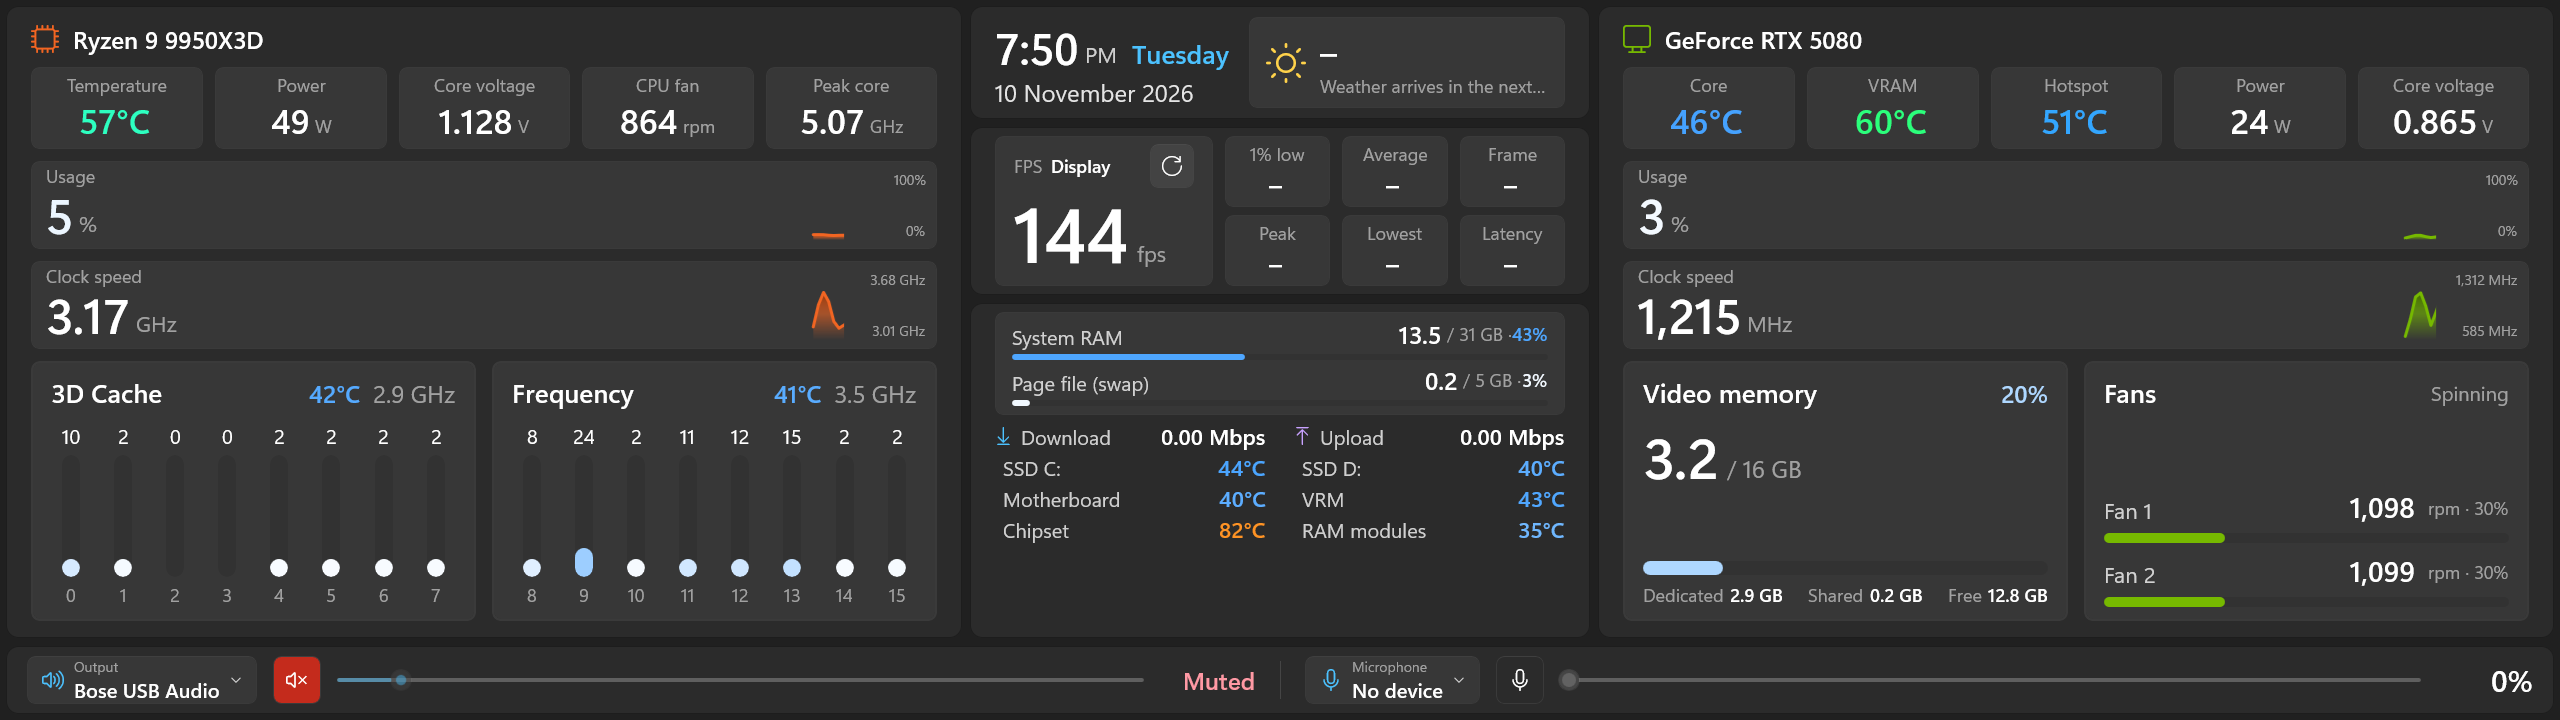
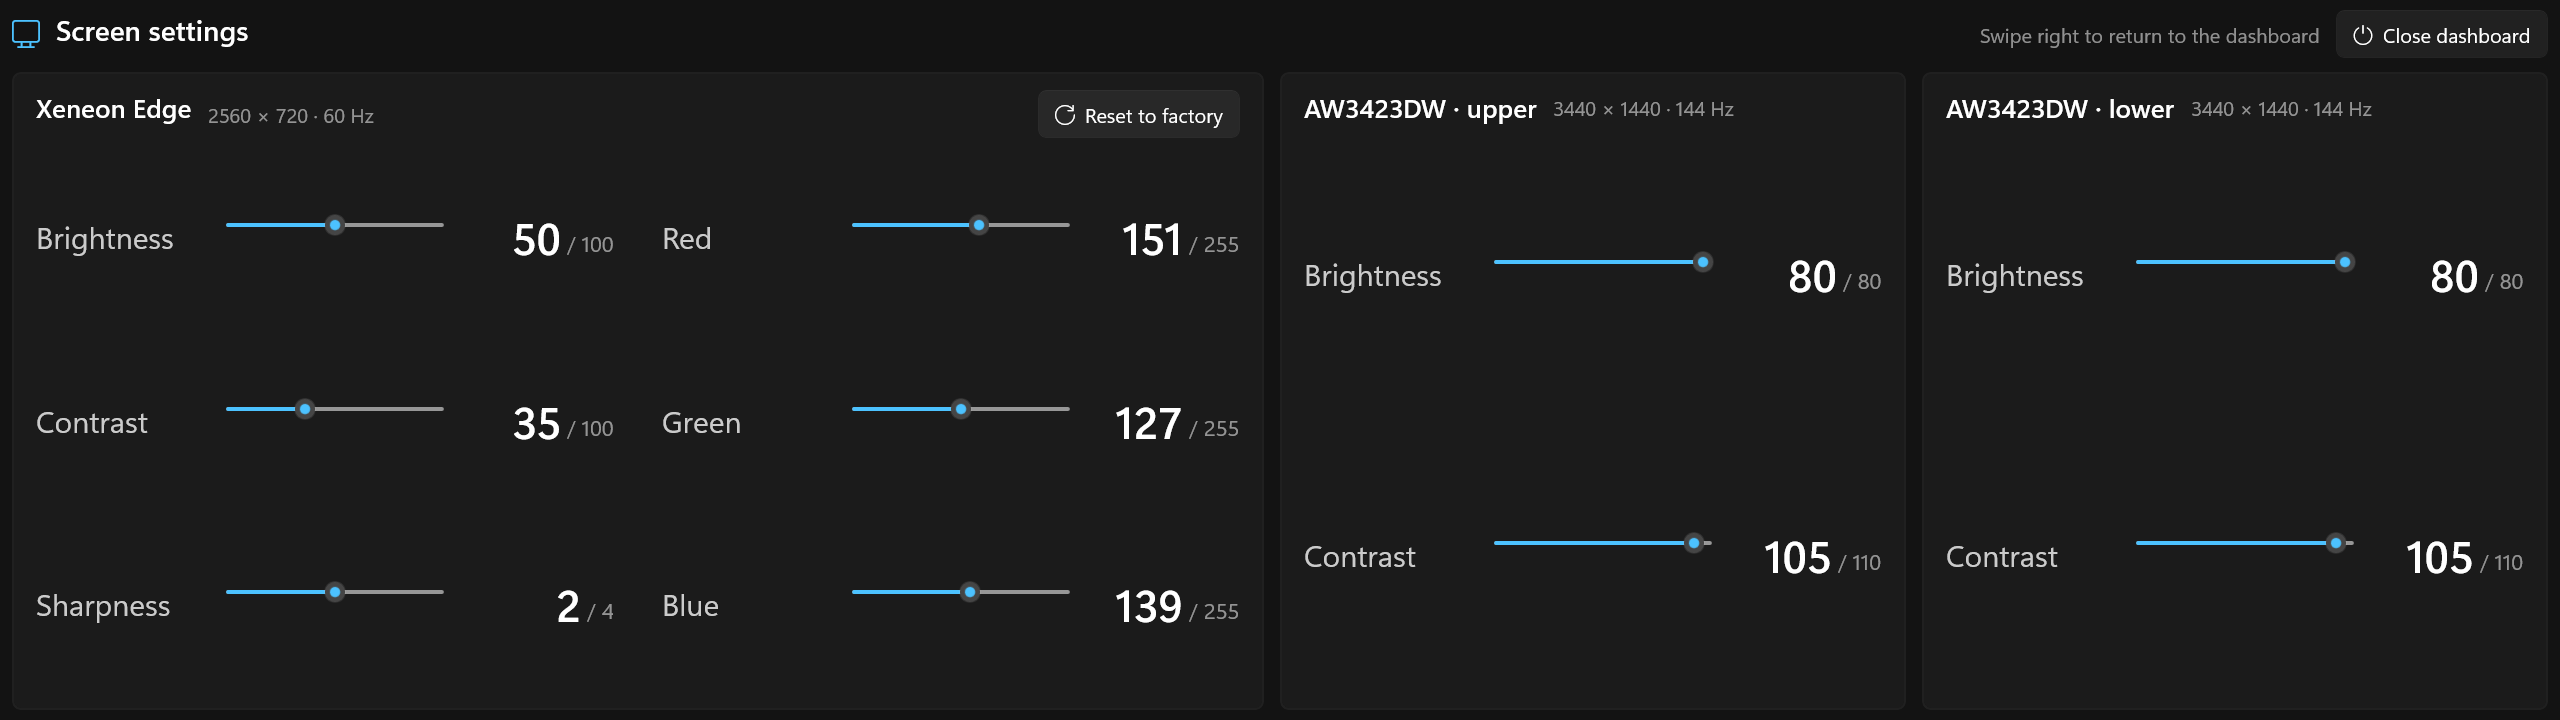
Close the dashboard with a two-tap button instead of Esc

diff --git a/Ui/DisplayPage.cs b/Ui/DisplayPage.cs
@@ -19,9 +19,12 @@ public sealed class DisplayPage
     private readonly Dictionary<(DdcMonitor Monitor, byte Code), (Slider Slider, TextBlock Value)> _controls = new();
     private bool _refreshing; // true while sliders are being set from the monitor, so they don't send the value back
 
-    public DisplayPage(Grid host)
+    private readonly Action _close;
+
+    public DisplayPage(Grid host, Action close)
     {
         _host = host;
+        _close = close;
         _ui = DispatcherQueue.GetForCurrentThread();
         _host.Padding = new Thickness(8);
         _host.Children.Add(Centered("Reading monitor settings…"));
@@ -65,7 +68,8 @@ public sealed class DisplayPage
         _host.Children.Clear();
         var rows = Make.Rows(14, Make.Auto, Make.Star);
 
-        var header = Make.Columns(16, Make.Auto, Make.Auto, Make.Star, Make.Auto);
+        var header = Make.Columns(16, Make.Auto, Make.Auto, Make.Star, Make.Auto, Make.Auto);
+        CloseButton().At(header, column: 4);
         var icon = Make.Icon("", 28, Theme.Accent);
         icon.VerticalAlignment = VerticalAlignment.Center;
         icon.At(header, column: 0);
@@ -94,6 +98,32 @@ public sealed class DisplayPage
         }
         cards.At(rows, row: 1);
         _host.Children.Add(Make.Panel(rows, new Thickness(20, 14, 20, 16)));
+    }
+
+    /// <summary>
+    /// The only way to close the dashboard, and it takes two taps: the first arms the button for a
+    /// few seconds ("Tap again to close"), the second closes. A stray touch does nothing.
+    /// </summary>
+    private Button CloseButton()
+    {
+        var label = Make.Text("Close dashboard", 20);
+        var content = new StackPanel { Orientation = Orientation.Horizontal, Spacing = 10 };
+        content.Children.Add(Make.Icon("", 20, Theme.Text));
+        content.Children.Add(label);
+        var button = new Button { Height = 48, Padding = new Thickness(16, 0, 16, 0), CornerRadius = new CornerRadius(8), Content = content };
+
+        bool armed = false;
+        var disarm = new DispatcherTimer { Interval = TimeSpan.FromSeconds(4) };
+        disarm.Tick += (_, _) => { disarm.Stop(); armed = false; label.Text = "Close dashboard"; button.ClearValue(Control.BackgroundProperty); };
+        button.Click += (_, _) =>
+        {
+            if (armed) { disarm.Stop(); _close(); return; }
+            armed = true;
+            label.Text = "Tap again to close";
+            button.Background = Theme.Brush(Theme.Danger);
+            disarm.Start();
+        };
+        return button;
     }
 
     private Border MonitorCard(string name, DdcMonitor monitor, List<Setting> settings)

diff --git a/MainWindow.xaml.cs b/MainWindow.xaml.cs
@@ -81,13 +81,11 @@ public sealed partial class MainWindow : Window
         // A dashboard, not a program you switch to: keep it off the taskbar and out of Alt+Tab.
         AppWindow.IsShownInSwitchers = false;
 
-        var escape = new KeyboardAccelerator { Key = VirtualKey.Escape };
-        escape.Invoked += (_, _) => Close();
-        Pages.KeyboardAccelerators.Add(escape);
 
         Backdrop.Background = Theme.Brush(Theme.Page);
 
-        var displayPage = new DisplayPage(DisplayHost);
+        // No keyboard shortcut closes the dashboard; the only way is the two-tap button on the settings page.
+        var displayPage = new DisplayPage(DisplayHost, Close);
         // "--display" opens straight on the screen-settings page (used for testing).
         if (Environment.GetCommandLineArgs().Contains("--display")) Pages.Loaded += (_, _) => Pages.SelectedIndex = 1;
 

diff --git a/README.md b/README.md
@@ -22,7 +22,8 @@ Run `EdgeDashboard-Setup-<version>.exe`. It installs for the current user withou
 Start menu entry, starts with Windows, and sets the app to use the power-saving GPU. Uninstall from
 Settings > Apps.
 
-The dashboard opens full-screen on the 2560×720 display. Press Esc to close it.
+The dashboard opens full-screen on the 2560×720 display. To close it, swipe to the Screen settings
+page and tap **Close dashboard** twice (the second tap confirms). No key closes it by accident.
 
 ## Build
 
